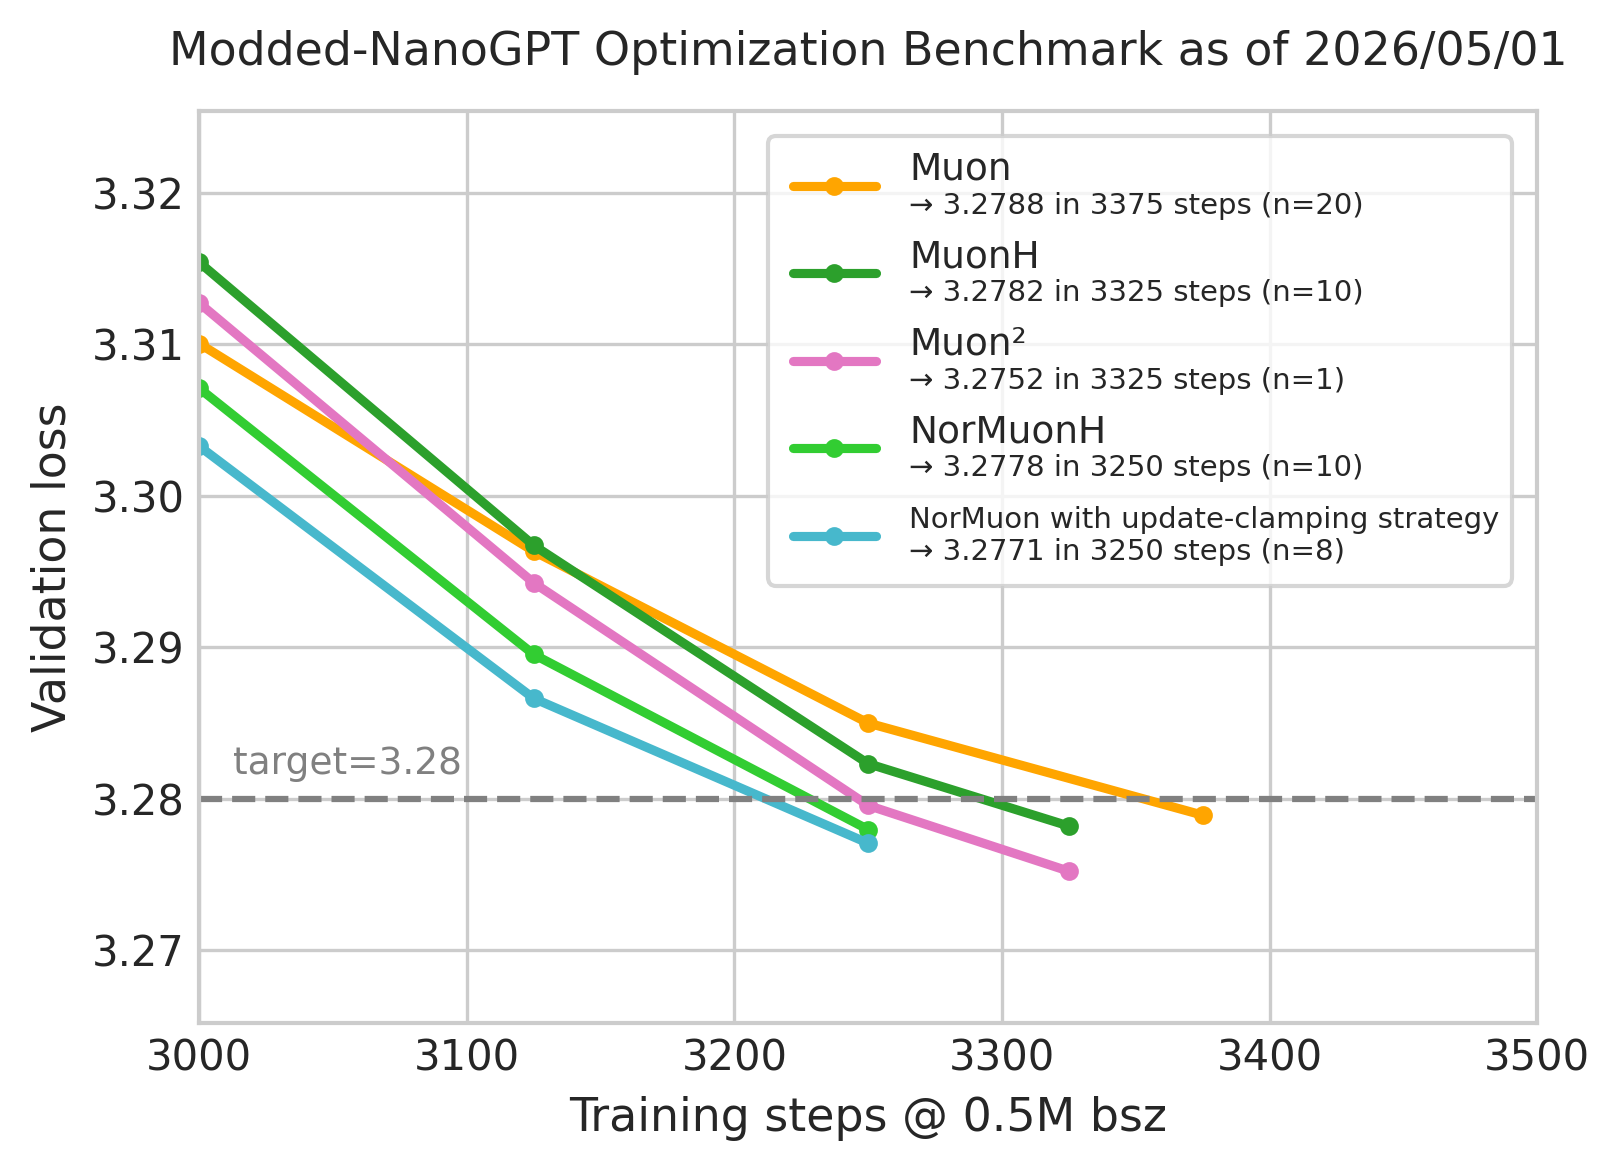
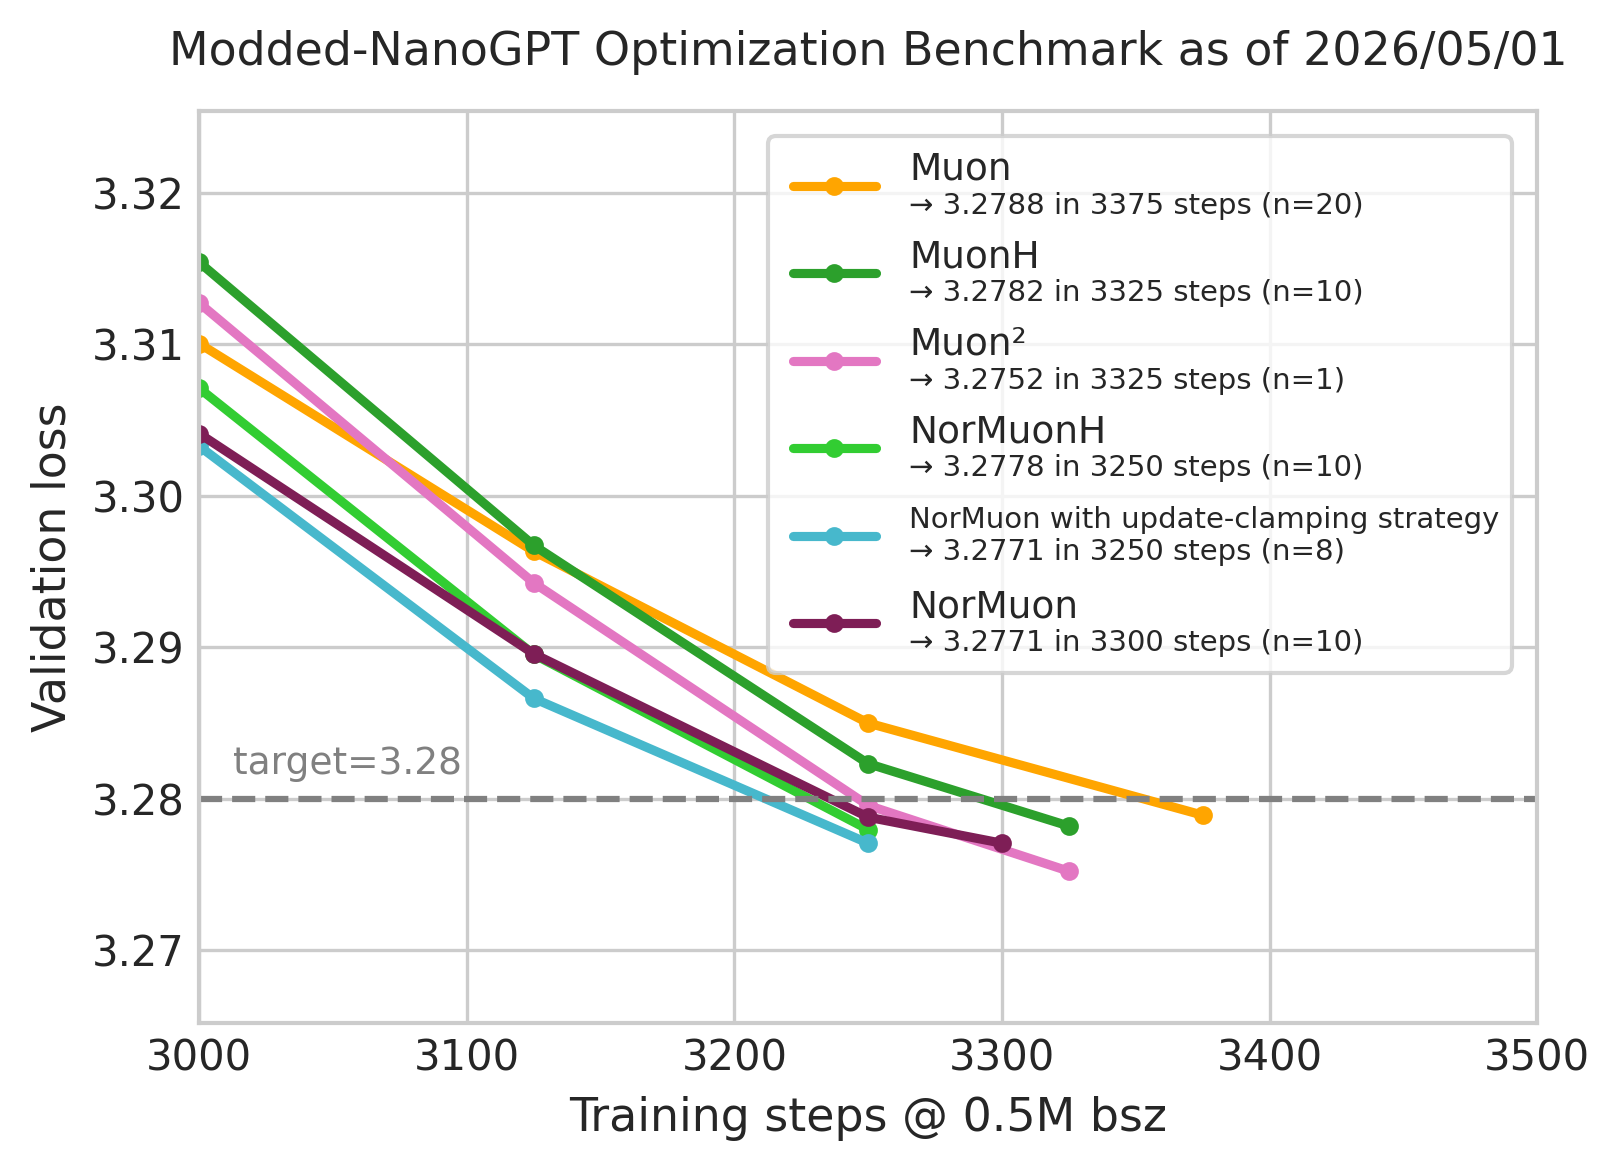
.

diff --git a/records/track_3_optimization/make_figures.py b/records/track_3_optimization/make_figures.py
@@ -20,6 +20,7 @@ logfiles = {
     7: ('Muon²', '#e377c2'),
     8: ('NorMuonH', '#32CD32'),
     9: 'NorMuon with update-clamping strategy',
+    10: ('NorMuon', '#7e1e56'),
 }
 readme_rows = {}
 row_pattern = re.compile(

diff --git a/records/track_3_optimization/README.md b/records/track_3_optimization/README.md
@@ -37,6 +37,7 @@ which the PR appeared.
 | 7 | 3325 | 3.2752 (n=1)✓ | [Muon²](https://arxiv.org/abs/2604.09967) with aux Adam, lr=.10 wd=.0125 β₂=.95 ε=1e-10 | 2026/04/29 | [log](results/20260501_muonsq/bb903816-ea27-4f5f-8028-c963d38c6a7f.txt) | [PR](https://github.com/KellerJordan/modded-nanogpt/pull/266) | @wilsoncwu |
 | 8 | 3250 | 3.2778 (n=10)✓ | [NorMuon](https://arxiv.org/abs/2510.05491)[H](https://psychedelic-sunstone-851.notion.site/Fantastic-Pretraining-Optimizers-and-Where-to-Find-Them-2-1-Hyperball-Optimization-2e924306e6f280e7a5ffee00eb40a0dd) (Muon NS direction + Adafactor-style row/col variance preconditioning, then hyperball constraint on hidden matrices) with per-module init std (attn.proj std=.026, mlp.proj std=.031, mlp.fc std=.031, qkv default), lr=.018 mu=0.95 beta2=0.95 h_cooldown_frac=1.0 aux_cooldown_frac=.4 | 2026/04/30 | [log](results/20260430_normuonh/f45b5dcf-16bb-4e83-b5c7-4ef4981f0e9f.txt)| [PR](https://github.com/KellerJordan/modded-nanogpt/pull/273) | @kaiyue-wen |
 | 9 | 3250 | 3.2771 (n=8)✓ | NorMuon with aux Adam + u/w-floor (wd-free strategy that clamps ‖u‖\_F / ‖w‖\_F to 0.35), lr=.0375 | 2026/04/29 | [log](results/20260501_skylight001/f78af80a-2ba3-4cf7-b9f7-e6e56ff2c54d.txt) | [PR](https://github.com/KellerJordan/modded-nanogpt/pull/274) | @kumarkrishna |
+| 10 | 3300 | 3.2771 (n=10)✓ | NorMuon lr=0.035 wd=0.025 | 2026/04/03 | [log](results/e0d0185f-ccb8-426d-8265-a4e762ec69f6.txt) | [PR](https://github.com/KellerJordan/modded-nanogpt/pull/276) | @lliu606 |
 
 <table>
   <tr>
